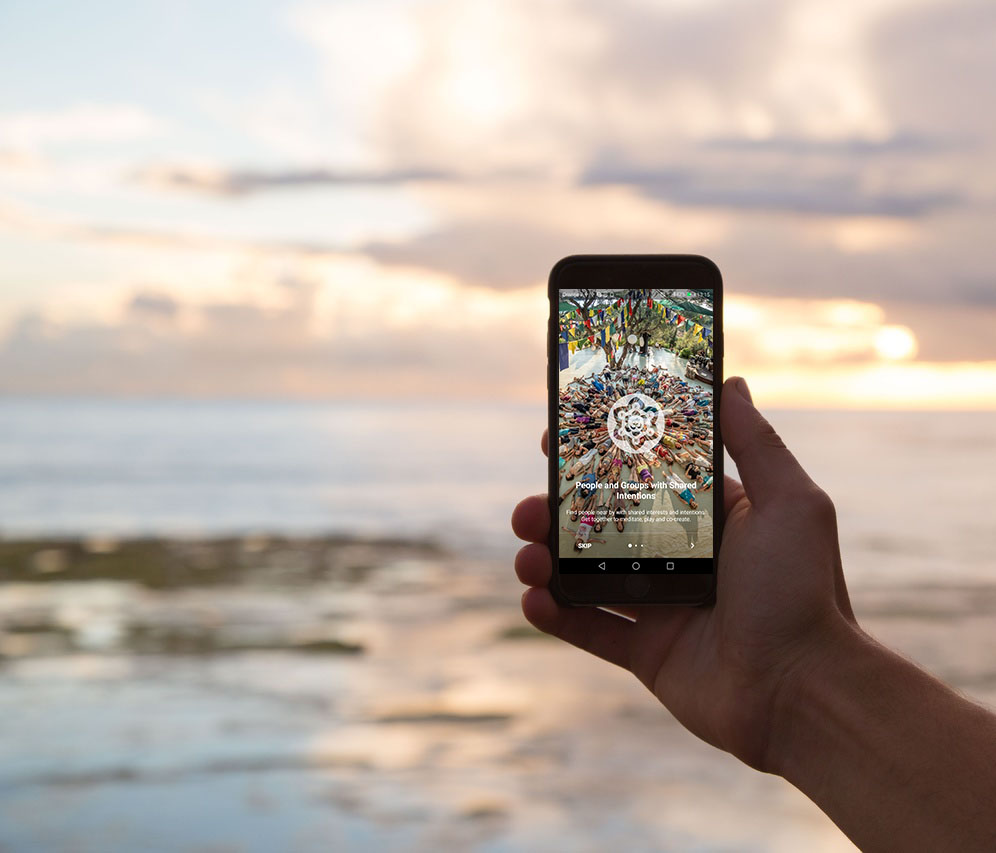
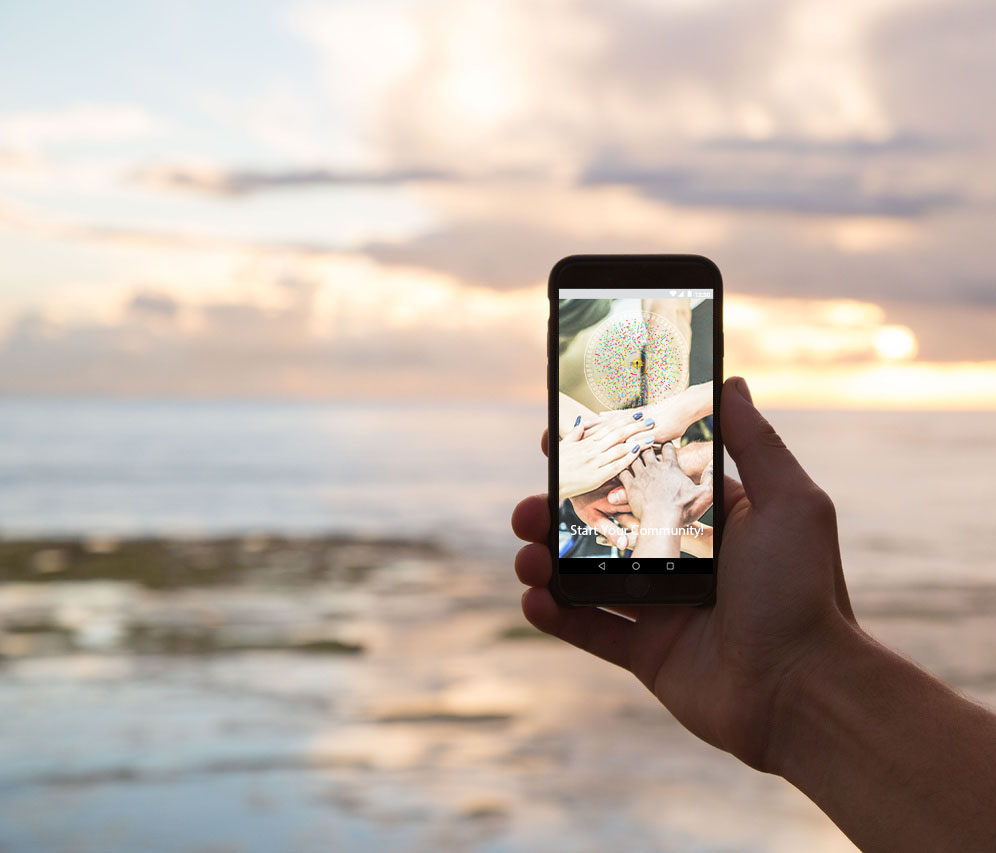
Changed BG images, updated texts.

Changed region(s): [[0.5602, 0.3353, 0.7159, 0.6706]]

diff --git a/www/css/new-age.min.css b/www/css/new-age.min.css
@@ -1,1 +1,1 @@
-body,html{width:100%;background-color:#fff;background-image:url(/img/bg-planet.jpg);background-repeat:no-repeat;background-attachment:fixed;background-position:center center;-webkit-background-size:cover;-moz-background-size:cover;-o-background-size:cover;background-size:cover}body{font-family:Roboto,Arial,sans-serif}a{color:#fdcc52;-webkit-transition:all .35s;-moz-transition:all .35s;transition:all .35s}a:focus,a:hover{color:#fcbd20}hr{max-width:100px;margin:25px auto 0;border-width:1px;border-color:rgba(34,34,34,.1)}hr.light{border-color:#fff}h1,h2,h3,h4,h5,h6{font-family:Lato,Roboto,Arial,sans-serif;font-weight:600;-webkit-font-smoothing:antialiased;letter-spacing:1px}p{font-size:18px;line-height:1.5;margin-bottom:20px}section{padding:60px 0}section h2{font-size:50px}#mainNav{z-index:100;border-color:rgba(34,34,34,.05);background-color:#fff;-webkit-transition:all .35s;-moz-transition:all .35s;transition:all .35s;font-family:Lato,Roboto,Arial,sans-serif;font-weight:600;-webkit-font-smoothing:antialiased;letter-spacing:1px}#mainNav .navbar-brand{margin-top:2px;line-height:1.1rem;color:#fdcc52;font-family:Lato,Roboto,Arial,sans-serif;font-weight:600;-webkit-font-smoothing:antialiased;letter-spacing:1px}#mainNav .navbar-brand:focus,#mainNav .navbar-brand:hover{color:#fcbd20}#mainNav .logo{width:35px;height:35px;padding:0;margin-top:5px;float:left;opacity:.8}#mainNav .navbar-toggler{font-size:12px;padding:8px 10px;color:#fdcc52}#mainNav .navbar-nav>li>a{font-size:11px;font-family:Lato,Roboto,Arial,sans-serif;letter-spacing:2px;text-transform:uppercase}#mainNav .navbar-nav>li>a.active{color:#fdcc52!important;background-color:transparent}#mainNav .navbar-nav>li>a.active:hover{background-color:transparent}#mainNav .navbar-nav>li>a,#mainNav .navbar-nav>li>a:focus{color:#43147d}#mainNav .navbar-nav>li>a:focus:hover,#mainNav .navbar-nav>li>a:hover{color:#fdcc52}@media (min-width:992px){#mainNav{border-color:transparent;background-color:transparent}#mainNav .navbar-brand{color:fade(white,70%)}#mainNav .navbar-brand:focus,#mainNav .navbar-brand:hover{color:#fff}#mainNav .navbar-nav>li>a,#mainNav .navbar-nav>li>a:focus{color:rgba(255,255,255,.7)}#mainNav .navbar-nav>li>a:focus:hover,#mainNav .navbar-nav>li>a:hover{color:#fff}#mainNav.navbar-shrink{border-color:rgba(34,34,34,.1);background-color:#fff}#mainNav.navbar-shrink .navbar-brand{color:#43147d}#mainNav.navbar-shrink .navbar-brand:focus,#mainNav.navbar-shrink .navbar-brand:hover{color:#fdcc52}#mainNav.navbar-shrink .navbar-nav>li>a,#mainNav.navbar-shrink .navbar-nav>li>a:focus{color:#43147d}#mainNav.navbar-shrink .navbar-nav>li>a:focus:hover,#mainNav.navbar-shrink .navbar-nav>li>a:hover{color:#fdcc52}}header.masthead{position:relative;width:100%;padding-top:150px;padding-bottom:100px;color:#fff}header.masthead .header-content{max-width:500px;margin-bottom:100px;padding:20px;background-color:rgba(183,155,141,.7);border-radius:9px;text-align:left}header.masthead .header-content p{font-size:16px}header.masthead .header-content h1{font-size:16px;margin-bottom:0}header.masthead .device-container{max-width:325px;margin-right:auto;margin-left:auto}header.masthead .device-container .screen img{border-radius:3px}@media (min-width:992px){header.masthead{height:100vh;min-height:775px;padding-top:0;padding-bottom:0}header.masthead .header-content{margin-bottom:0;text-align:left}header.masthead .header-content p{font-size:17px}header.masthead .header-content h1{font-size:18px;margin-bottom:0}header.masthead .device-container{max-width:325px}}#info_container{z-index:0}#info_container.container-shrink{display:none}#planet_info{margin-top:90px;width:300px;float:right;z-index:0}@media (min-width:992px){#planet_info{margin-top:70px}}#planet_info p{color:rgba(255,255,255,.8);font-size:11px;letter-spacing:1.3px}#planet_info .solar_system{width:65px;height:65px;margin-right:10px;float:left}#planet_container{width:100%;height:100%;z-index:101}#planet_container .bg1{width:100%;height:100%;position:absolute;top:0;left:0;right:0;bottom:0;opacity:.6;background:-moz-radial-gradient(center,ellipse cover,rgba(255,255,255,.6) 0,transparent 60%);background:-webkit-radial-gradient(center,ellipse cover,rgba(255,255,255,.6) 0,transparent 60%);background:radial-gradient(ellipse at center,rgba(255,255,255,.6) 0,transparent 60%)}#canvas_container{height:100vh;z-index:0}#canvas_three{height:100%;width:100%;z-index:1;opacity:0;transform:scale(.3);-webkit-transform:scale(.3);background-image:url(/img/stargate.svg);background-position:50% 50%;background-repeat:no-repeat;background-size:62% 62%}#canvas_three.animated{opacity:.8;transform:scale(.8);-webkit-transform:scale(.8);transition:all 3s cubic-bezier(.2,1,.4,.8) 0s;-webkit-transition:all 3s cubic-bezier(.2,1,.4,.8) 0s}#planet_container .planet_name{position:absolute;text-align:center;left:50%;width:333px;height:33px;margin:-15px 0 0 -166.6px;bottom:18%;font-family:Roboto,sans-serif;font-weight:500;color:#fff}#planet_container .planet-title{font-size:24px;margin-bottom:10px;text-shadow:2px 2px 4px #491d12}#planet_container .planet-subtitle{font-size:18px;border-radius:5px;padding:4px;text-shadow:2px 2px 4px #491d12}section.download{background-color:#fff;position:relative;padding:150px 0}section.download p{font-size:12px}section.download h2{font-size:20px;margin-top:0}section.download .badges .badge-link{display:block;margin-bottom:25px}section.download .badges .badge-link:last-child{margin-bottom:0}section.download .badges .badge-link img{height:60px}@media (min-width:768px){section.download .badges .badge-link{display:inline-block;margin-bottom:0}}@media (min-width:768px){section.download p{font-size:18px}section.download h2{font-size:30px}}section.features{background-color:#fdcc52;color:#fff}section.features .section-heading{margin-bottom:10px}section.features .section-heading h2{font-size:20px;margin-top:0}section.features .section-heading p{font-size:15px;margin-bottom:0}@media (min-width:992px){section.features .container{background:-moz-radial-gradient(center,ellipse cover,rgba(255,255,255,.3) 0,transparent 60%);background:-webkit-radial-gradient(center,ellipse cover,rgba(255,255,255,.3) 0,transparent 60%);background:radial-gradient(ellipse at center,rgba(255,255,255,.3) 0,transparent 60%)}section.features h2{font-size:22px;margin-top:0}section.features p{font-size:18px;margin-bottom:0}}section.features .device-container,section.features .feature-item{max-width:325px;margin:0 auto}section.features .device-container{margin-bottom:100px}@media (min-width:992px){section.features .device-container{margin-bottom:0}}section.features .feature-item{padding-top:40px;padding-bottom:0;text-align:center}section.features .feature-item h3{font-size:20px}section.features .feature-item p{font-size:16px;margin-bottom:0}section.features .feature-item i{font-size:80px;display:block;margin-bottom:15px;background:-webkit-linear-gradient(to left,#fdcc52,#fff);background:linear-gradient(to left,#fdcc52,#fff);-webkit-background-clip:text;-webkit-text-fill-color:transparent}section.timeline{background-image:url(../img/bg-timeline.svg);background-color:grey;background-repeat:no-repeat;background-position:center center;-webkit-background-size:cover;-moz-background-size:cover;-o-background-size:cover;background-size:cover;position:relative;padding-bottom:150px}section.timeline h2{font-size:26px;margin-top:0;margin-bottom:25px;color:#fff;text-align:center}section.timeline .timeline-content{position:relative;z-index:10;margin-bottom:60px;text-align:center;height:2000px}section.timeline .timeline-content p{font-size:14px;max-width:450px;margin-top:0;margin-bottom:25px;color:#fff}section.timeline .timeline-content h2{font-size:21px;margin-top:0;margin-bottom:25px;color:#fff}section.timeline .timeline-content .dot{width:6px;height:6px;border-radius:6px;margin:auto;background:#fff;margin-top:60px;margin-bottom:10px}section.timeline .timeline-content .circle{background:url(../img/solar_system.svg) no-repeat 50% 0;width:90px;height:90px;margin:auto;text-align:center;margin-top:10px}section.timeline .timeline-content .line{width:1px;height:100%;margin:auto;background:#fff;position:relative}section.timeline .timeline-content .timeline-holder{width:100%;margin:auto;text-align:center;position:absolute;top:20px;background:0 0}section.timeline .timeline-content .date-box{width:80px;height:25px;background:#fff;position:relative;margin:auto;margin-top:25px;text-align:center}section.timeline .timeline-content .date-txt{font-size:18px;font-weight:600;color:#0e0e0e}section.timeline .timeline-content .timeline-box{width:110px;color:#fff;position:relative;margin:auto;background:0 0}section.timeline .timeline-content .timeline-left{right:110px;text-align:right}section.timeline .timeline-content .timeline-right{left:110px;text-align:left}section.timeline .timeline-content .timeline-mid{margin-top:25px}section.timeline .timeline-content .timeline-top{margin-top:-35px}section.timeline .timeline-content .timeline-title{font-size:11px;line-height:11px;text-transform:uppercase}section.timeline .timeline-content .timeline-description{font-size:10px;font-style:italic}@media (min-width:768px){section.timeline .timeline-content{height:1522px}section.timeline .timeline-content p{font-size:16px}section.timeline .timeline-content h2{font-size:22px}section.timeline .timeline-content .timeline-box{width:400px;color:#fff;position:relative;margin:auto;background:0 0}section.timeline .timeline-content .timeline-left{right:255px;text-align:right}section.timeline .timeline-content .timeline-right{left:255px;text-align:left}section.timeline .timeline-content .timeline-mid{margin-top:25px}section.timeline .timeline-content .timeline-top{margin-top:-35px}section.timeline .timeline-content .timeline-title{font-size:18px;line-height:20px;text-transform:uppercase}section.timeline .timeline-content .timeline-description{font-size:17px;font-style:italic}}section.cta{background-image:url(../img/bg-cta.jpg);background-repeat:no-repeat;background-position:60% center;-webkit-background-size:cover;-moz-background-size:cover;-o-background-size:cover;background-size:cover;position:relative}section.cta .cta-content{position:relative;z-index:1}section.cta .cta-content p{font-size:14px;max-width:450px;margin-top:0;padding:20px;color:#fff;background-color:rgba(144,133,127,.5);border-radius:9px}section.cta .cta-content h2{font-size:21px;max-width:450px;margin-top:0;margin-bottom:25px;margin-left:12px;color:#fff;text-shadow:2px 2px 4px #90857f}@media (min-width:768px){section.cta .cta-content p{font-size:16px}section.cta .cta-content h2{font-size:24px}}section.cta .overlay{position:absolute;top:0;left:0;width:100%;height:100%;background-color:rgba(0,0,0,.3)}section.principles{background-color:#fff;position:relative}section.principles .principles-content{position:relative;z-index:1}section.principles .principles-content p,section.principles .principles-content ul li{font-size:14px;max-width:450px;margin-top:0;margin-bottom:25px;color:#222}section.principles .principles-content h2{font-size:21px;max-width:450px;margin-top:0;margin-bottom:25px;color:#fdcc52}section.principles .principles-content h4{font-size:15px;margin-top:0;margin-bottom:5px;color:#222}section.principles .principles-content ul.platonic_icons li{display:inline-block;padding:0 1em 0 0}section.principles .principles-content .platonic_icons img{height:35px}@media (min-width:768px){section.principles .principles-content p{font-size:12px}section.principles .principles-content h2{font-size:18px}section.principles .principles-content h4{font-size:14px}}section.vision{background-image:url(../img/bg-vision.jpg);background-repeat:no-repeat;background-position:35% center;-webkit-background-size:cover;-moz-background-size:cover;-o-background-size:cover;background-size:cover;position:relative}section.vision .vision-content{position:relative;z-index:1}section.vision .vision-content p{font-size:14px;max-width:550px;margin-top:0;padding:20px;color:#fff;background-color:rgba(112,116,129,.4);border-radius:9px}section.vision .vision-content h2{font-size:22px;max-width:450px;margin-top:0;margin-left:10px;margin-bottom:25px;color:#fdcc52}section.vision .vision-content h4{font-size:16px;margin-top:0;margin-left:10px;margin-bottom:15px;max-width:450px;color:#fff;text-shadow:2px 2px 4px #707481}@media (min-width:768px){section.vision .vision-content p{font-size:14px}section.vision .vision-content h2{font-size:16px}section.vision .vision-content h4{font-size:16px}}section.vision .overlay{position:absolute;top:0;left:0;width:100%;height:100%;background-color:rgba(0,0,0,.3)}section.faqs{background-color:#fff;position:relative}section.faqs .faqs-content{position:relative;z-index:1}section.faqs .faqs-content p,section.faqs .faqs-content ul li{font-size:15px;max-width:550px;margin-top:0;margin-bottom:25px;color:#222}section.faqs .faqs-content h2{font-size:21px;max-width:450px;margin-top:0;margin-bottom:25px;color:#fdcc52}section.faqs .faqs-content h4{font-size:18px;margin-top:0;margin-bottom:5px;max-width:450px;color:#222}@media (min-width:768px){section.faqs .faqs-content p{font-size:14px}section.faqs .faqs-content h2{font-size:18px}section.faqs .faqs-content h4{font-size:16px}}section.contact{background-image:url(/img/bg-contact.jpg);background-repeat:no-repeat;background-position:center center;-webkit-background-size:cover;-moz-background-size:cover;-o-background-size:cover;background-size:cover;padding-top:360px;padding-bottom:70px;text-align:center}section.contact h2{font-size:20px;color:#fff}section.contact h2 i{color:#dd4b39}section.contact ul.list-social{margin-bottom:10px}section.contact ul.list-social li a{font-size:40px;line-height:80px;display:block;width:80px;height:80px;color:#fff;border-radius:100%}section.contact ul.list-social li.social-instagram a{background-color:#f09433}section.contact ul.list-social li.social-instagram a:hover{background-color:#e07b10}section.contact ul.list-social li.social-facebook a{background-color:#3b5998}section.contact ul.list-social li.social-facebook a:hover{background-color:#2d4373}section.contact ul.list-social li.social-google-plus a{background-color:#dd4b39}section.contact ul.list-social li.social-google-plus a:hover{background-color:#c23321}section.contact ul.list-social li.social-email a{background-color:#dd4b39}section.contact ul.list-social li.social-email a:hover{background-color:#c23321}section.contact ul.list-social li.social-omplanet-org a{background-color:rgba(253,204,82,.5)}section.contact ul.list-social li.social-omplanet-org a:hover{background-color:#3c3c3c}section.contact ul.list-social li.social-omplanet-org img{width:100%;height:100%;margin-top:-10px}footer{padding:10px 0;text-align:center;color:#555;background-color:#fff}footer p{font-size:12px;margin:0}footer ul{margin-bottom:0}footer ul li a{font-size:12px;color:#555}footer ul li a.active,footer ul li a:active,footer ul li a:focus,footer ul li a:hover{text-decoration:none}.bg-primary{background:#fdcc52;background:-webkit-linear-gradient(#fff,#fdc539);background:linear-gradient(#fff,#fdc539)}.text-primary{color:#fdcc52}.no-gutter>[class*=col-]{padding-right:0;padding-left:0}.btn-outline{color:#fff;border:1px solid;border-color:#fff}.btn-outline.active,.btn-outline:active,.btn-outline:focus,.btn-outline:hover{color:#fff;border-color:#fdcc52;background-color:#fdcc52}.btn-outline-success{color:#fdcc52;border:1px solid;border-color:#fdcc52}.btn-outline-success.active,.btn-outline-success:active,.btn-outline-success:focus,.btn-outline-success:hover{color:#fff;border-color:#fdcc52;background-color:#fdcc52}.btn{border-radius:300px;font-family:Lato,Roboto,Arial,sans-serif;letter-spacing:2px;text-transform:uppercase}.btn-xl{font-size:11px;padding:15px 45px}
+body,html{width:100%;background-color:#fff}@media (min-width:768px){body,html{background-image:url(/img/bg-planet.jpg);background-repeat:no-repeat;background-attachment:fixed;background-position:center center;-webkit-background-size:cover;-moz-background-size:cover;-o-background-size:cover;background-size:cover}}body{font-family:Roboto,Arial,sans-serif}a{color:#fdcc52;-webkit-transition:all .35s;-moz-transition:all .35s;transition:all .35s}a:focus,a:hover{color:#fcbd20}hr{max-width:100px;margin:25px auto 0;border-width:1px;border-color:rgba(34,34,34,.1)}hr.light{border-color:#fff}h1,h2,h3,h4,h5,h6{font-family:Lato,Roboto,Arial,sans-serif;font-weight:600;-webkit-font-smoothing:antialiased;letter-spacing:1px}p{font-size:18px;line-height:1.5;margin-bottom:20px}section{padding:60px 0}section h2{font-size:50px}#mainNav{z-index:100;border-color:rgba(34,34,34,.05);background-color:#fff;-webkit-transition:all .35s;-moz-transition:all .35s;transition:all .35s;font-family:Lato,Roboto,Arial,sans-serif;font-weight:600;-webkit-font-smoothing:antialiased;letter-spacing:1px}#mainNav .navbar-brand{margin-top:2px;line-height:1.1rem;color:#fdcc52;font-family:Lato,Roboto,Arial,sans-serif;font-weight:600;-webkit-font-smoothing:antialiased;letter-spacing:1px}#mainNav .navbar-brand:focus,#mainNav .navbar-brand:hover{color:#fcbd20}#mainNav .logo{width:35px;height:35px;padding:0;margin-top:5px;float:left;opacity:.8}#mainNav .navbar-toggler{font-size:12px;padding:8px 10px;color:#fdcc52}#mainNav .navbar-nav>li>a{font-size:11px;font-family:Lato,Roboto,Arial,sans-serif;letter-spacing:2px;text-transform:uppercase}#mainNav .navbar-nav>li>a.active{color:#fdcc52!important;background-color:transparent}#mainNav .navbar-nav>li>a.active:hover{background-color:transparent}#mainNav .navbar-nav>li>a,#mainNav .navbar-nav>li>a:focus{color:#43147d}#mainNav .navbar-nav>li>a:focus:hover,#mainNav .navbar-nav>li>a:hover{color:#fdcc52}@media (min-width:992px){#mainNav{border-color:transparent;background-color:transparent}#mainNav .navbar-brand{color:fade(white,70%)}#mainNav .navbar-brand:focus,#mainNav .navbar-brand:hover{color:#fff}#mainNav .navbar-nav>li>a,#mainNav .navbar-nav>li>a:focus{color:rgba(255,255,255,.7)}#mainNav .navbar-nav>li>a:focus:hover,#mainNav .navbar-nav>li>a:hover{color:#fff}#mainNav.navbar-shrink{border-color:rgba(34,34,34,.1);background-color:#fff}#mainNav.navbar-shrink .navbar-brand{color:#43147d}#mainNav.navbar-shrink .navbar-brand:focus,#mainNav.navbar-shrink .navbar-brand:hover{color:#fdcc52}#mainNav.navbar-shrink .navbar-nav>li>a,#mainNav.navbar-shrink .navbar-nav>li>a:focus{color:#43147d}#mainNav.navbar-shrink .navbar-nav>li>a:focus:hover,#mainNav.navbar-shrink .navbar-nav>li>a:hover{color:#fdcc52}}header.masthead{position:relative;width:100%;padding-top:70px;padding-bottom:70px;color:#fff}header.masthead .header-content{max-width:500px;margin-bottom:100px;padding:20px;background-color:rgba(183,155,141,.7);border-radius:9px;text-align:left}header.masthead .header-content p{font-size:16px}header.masthead .header-content h1{font-size:16px;margin-bottom:0}header.masthead .device-container{max-width:325px;margin-right:auto;margin-left:auto}header.masthead .device-container .screen img{border-radius:3px}@media (min-width:992px){header.masthead{height:100vh;min-height:775px;padding-top:0;padding-bottom:0}header.masthead .header-content{margin-bottom:0;text-align:left}header.masthead .header-content p{font-size:17px}header.masthead .header-content h1{font-size:18px;margin-bottom:0}header.masthead .device-container{max-width:325px}}#info_container{z-index:0}#info_container.container-shrink{display:none}#planet_info{margin-top:90px;width:300px;float:right;z-index:0}@media (min-width:992px){#planet_info{margin-top:70px}}#planet_info p{color:rgba(255,255,255,.8);font-size:11px;letter-spacing:1.3px}#planet_info .solar_system{width:65px;height:65px;margin-right:10px;float:left}#planet_container{width:100%;height:100%;z-index:101}@media (max-width:767px){#planet_container{background-image:url(../img/bg-planet-mobile.jpg);background-repeat:no-repeat;background-position:center center;-webkit-background-size:cover;-moz-background-size:cover;-o-background-size:cover;background-size:cover}}#planet_container .bg1{width:100%;height:100%;position:absolute;top:0;left:0;right:0;bottom:0;opacity:.6;background:-moz-radial-gradient(center,ellipse cover,rgba(255,255,255,.6) 0,transparent 60%);background:-webkit-radial-gradient(center,ellipse cover,rgba(255,255,255,.6) 0,transparent 60%);background:radial-gradient(ellipse at center,rgba(255,255,255,.6) 0,transparent 60%)}#canvas_container{height:100vh;z-index:0}#canvas_three{height:100%;width:100%;z-index:1;opacity:0;transform:scale(.3);-webkit-transform:scale(.3);background-image:url(/img/stargate.svg);background-position:50% 50%;background-repeat:no-repeat;background-size:62% 62%}#canvas_three.animated{opacity:.8;transform:scale(.8);-webkit-transform:scale(.8);transition:all 3s cubic-bezier(.2,1,.4,.8) 0s;-webkit-transition:all 3s cubic-bezier(.2,1,.4,.8) 0s}#planet_container .planet_name{position:absolute;text-align:center;left:50%;width:333px;height:33px;margin:-15px 0 0 -166.6px;bottom:18%;font-family:Roboto,sans-serif;font-weight:500;color:#fff}#planet_container .planet-title{font-size:24px;margin-bottom:10px;text-shadow:2px 2px 4px #491d12}#planet_container .planet-subtitle{font-size:18px;border-radius:5px;padding:4px;text-shadow:2px 2px 4px #491d12}section.download{background-color:#fff;position:relative;padding:150px 0}section.download p{font-size:12px}section.download h2{font-size:20px;margin-top:0}section.download .badges .badge-link{display:block;margin-bottom:25px}section.download .badges .badge-link:last-child{margin-bottom:0}section.download .badges .badge-link img{height:60px}@media (min-width:768px){section.download .badges .badge-link{display:inline-block;margin-bottom:0}}@media (min-width:768px){section.download p{font-size:18px}section.download h2{font-size:30px}}section.features{background-color:#fdcc52;color:#fff}section.features .section-heading{margin-bottom:10px}section.features .section-heading h2{font-size:20px;margin-top:0}section.features .section-heading p{font-size:15px;margin-bottom:0}@media (min-width:992px){section.features .container{background:-moz-radial-gradient(center,ellipse cover,rgba(255,255,255,.3) 0,transparent 60%);background:-webkit-radial-gradient(center,ellipse cover,rgba(255,255,255,.3) 0,transparent 60%);background:radial-gradient(ellipse at center,rgba(255,255,255,.3) 0,transparent 60%)}section.features h2{font-size:22px;margin-top:0}section.features p{font-size:18px;margin-bottom:0}}section.features .device-container,section.features .feature-item{max-width:325px;margin:0 auto}section.features .device-container{margin-bottom:100px}@media (min-width:992px){section.features .device-container{margin-bottom:0}}section.features .feature-item{padding-top:40px;padding-bottom:0;text-align:center}section.features .feature-item h3{font-size:20px}section.features .feature-item p{font-size:16px;margin-bottom:0}section.features .feature-item i{font-size:80px;display:block;margin-bottom:15px;background:-webkit-linear-gradient(to left,#fdcc52,#fff);background:linear-gradient(to left,#fdcc52,#fff);-webkit-background-clip:text;-webkit-text-fill-color:transparent}section.timeline{background-image:url(../img/bg-timeline.svg);background-color:grey;background-repeat:no-repeat;background-position:center center;-webkit-background-size:cover;-moz-background-size:cover;-o-background-size:cover;background-size:cover;position:relative;padding-bottom:150px}section.timeline h2{font-size:26px;margin-top:0;margin-bottom:25px;color:#fff;text-align:center}section.timeline .timeline-content{position:relative;z-index:10;margin-bottom:60px;text-align:center;height:2000px}section.timeline .timeline-content p{font-size:14px;max-width:450px;margin-top:0;margin-bottom:25px;color:#fff}section.timeline .timeline-content h2{font-size:21px;margin-top:0;margin-bottom:25px;color:#fff}section.timeline .timeline-content .dot{width:6px;height:6px;border-radius:6px;margin:auto;background:#fff;margin-top:60px;margin-bottom:10px}section.timeline .timeline-content .circle{background:url(../img/solar_system.svg) no-repeat 50% 0;width:90px;height:90px;margin:auto;text-align:center;margin-top:10px}section.timeline .timeline-content .line{width:1px;height:100%;margin:auto;background:#fff;position:relative}section.timeline .timeline-content .timeline-holder{width:100%;margin:auto;text-align:center;position:absolute;top:20px;background:0 0}section.timeline .timeline-content .date-box{width:80px;height:25px;background:#fff;position:relative;margin:auto;margin-top:25px;text-align:center}section.timeline .timeline-content .date-txt{font-size:18px;font-weight:600;color:#0e0e0e}section.timeline .timeline-content .timeline-box{width:110px;color:#fff;position:relative;margin:auto;background:0 0}section.timeline .timeline-content .timeline-left{right:110px;text-align:right}section.timeline .timeline-content .timeline-right{left:110px;text-align:left}section.timeline .timeline-content .timeline-mid{margin-top:25px}section.timeline .timeline-content .timeline-top{margin-top:-35px}section.timeline .timeline-content .timeline-title{font-size:11px;line-height:11px;text-transform:uppercase}section.timeline .timeline-content .timeline-description{font-size:10px;font-style:italic}@media (min-width:768px){section.timeline .timeline-content{height:1522px}section.timeline .timeline-content p{font-size:16px}section.timeline .timeline-content h2{font-size:22px}section.timeline .timeline-content .timeline-box{width:400px;color:#fff;position:relative;margin:auto;background:0 0}section.timeline .timeline-content .timeline-left{right:255px;text-align:right}section.timeline .timeline-content .timeline-right{left:255px;text-align:left}section.timeline .timeline-content .timeline-mid{margin-top:25px}section.timeline .timeline-content .timeline-top{margin-top:-35px}section.timeline .timeline-content .timeline-title{font-size:18px;line-height:20px;text-transform:uppercase}section.timeline .timeline-content .timeline-description{font-size:17px;font-style:italic}}section.cta{background-image:url(../img/bg-cta.jpg);background-repeat:no-repeat;background-position:60% center;-webkit-background-size:cover;-moz-background-size:cover;-o-background-size:cover;background-size:cover;position:relative}section.cta .cta-content{position:relative;z-index:1}section.cta .cta-content p{font-size:14px;max-width:450px;margin-top:0;padding:20px;color:#fff;background-color:rgba(144,133,127,.6);border-radius:9px}section.cta .cta-content h2{font-size:21px;max-width:450px;margin-top:0;margin-bottom:25px;margin-left:12px;color:#fff;text-shadow:2px 2px 4px #90857f}@media (min-width:768px){section.cta .cta-content p{font-size:16px}section.cta .cta-content h2{font-size:24px}}section.cta .overlay{position:absolute;top:0;left:0;width:100%;height:100%}section.principles{background-color:#fff;position:relative}section.principles .principles-content{position:relative;z-index:1}section.principles .principles-content p,section.principles .principles-content ul li{font-size:14px;max-width:450px;margin-top:0;margin-bottom:25px;color:#222}section.principles .principles-content h2{font-size:21px;max-width:450px;margin-top:0;margin-bottom:25px;color:#fdcc52}section.principles .principles-content h4{font-size:15px;margin-top:0;margin-bottom:5px;color:#222}section.principles .principles-content ul.platonic_icons li{display:inline-block;padding:0 1em 0 0}section.principles .principles-content .platonic_icons img{height:35px}@media (min-width:768px){section.principles .principles-content p{font-size:12px}section.principles .principles-content h2{font-size:18px}section.principles .principles-content h4{font-size:14px}}section.vision{background-image:url(../img/bg-vision.jpg);background-repeat:no-repeat;background-position:65% center;-webkit-background-size:cover;-moz-background-size:cover;-o-background-size:cover;background-size:cover;position:relative}section.vision .vision-content{position:relative;z-index:1}section.vision .vision-content p{font-size:14px;max-width:550px;margin-top:0;padding:20px;color:#fff;background-color:rgba(112,116,129,.6);border-radius:9px}section.vision .vision-content h2{font-size:22px;max-width:450px;margin-top:0;margin-left:10px;margin-bottom:25px;color:#fdcc52}section.vision .vision-content h4{font-size:16px;margin-top:0;margin-left:10px;margin-bottom:15px;max-width:450px;color:#fff;text-shadow:2px 2px 4px #707481}@media (min-width:768px){section.vision .vision-content p{font-size:14px}section.vision .vision-content h2{font-size:16px}section.vision .vision-content h4{font-size:16px}}section.vision .overlay{position:absolute;top:0;left:0;width:100%;height:100%;background-color:rgba(0,0,0,.1)}section.faqs{background-color:#fff;position:relative}section.faqs .faqs-content{position:relative;z-index:1}section.faqs .faqs-content p,section.faqs .faqs-content ul li{font-size:15px;max-width:550px;margin-top:0;margin-bottom:25px;color:#222}section.faqs .faqs-content h2{font-size:21px;max-width:450px;margin-top:0;margin-bottom:25px;color:#fdcc52}section.faqs .faqs-content h4{font-size:18px;margin-top:0;margin-bottom:5px;max-width:450px;color:#222}@media (min-width:768px){section.faqs .faqs-content p{font-size:14px}section.faqs .faqs-content h2{font-size:18px}section.faqs .faqs-content h4{font-size:16px}}section.contact{background-image:url(/img/bg-contact.jpg);background-repeat:no-repeat;background-position:center center;-webkit-background-size:cover;-moz-background-size:cover;-o-background-size:cover;background-size:cover;padding-top:360px;padding-bottom:70px;text-align:center}section.contact h2{font-size:20px;color:#fff}section.contact h2 i{color:#dd4b39}section.contact ul.list-social{margin-bottom:10px}section.contact ul.list-social li a{font-size:40px;line-height:80px;display:block;width:80px;height:80px;color:#fff;border-radius:100%}section.contact ul.list-social li.social-instagram a{background-color:#f09433}section.contact ul.list-social li.social-instagram a:hover{background-color:#e07b10}section.contact ul.list-social li.social-facebook a{background-color:#3b5998}section.contact ul.list-social li.social-facebook a:hover{background-color:#2d4373}section.contact ul.list-social li.social-google-plus a{background-color:#dd4b39}section.contact ul.list-social li.social-google-plus a:hover{background-color:#c23321}section.contact ul.list-social li.social-email a{background-color:#dd4b39}section.contact ul.list-social li.social-email a:hover{background-color:#c23321}section.contact ul.list-social li.social-omplanet-org a{background-color:rgba(253,204,82,.5)}section.contact ul.list-social li.social-omplanet-org a:hover{background-color:#3c3c3c}section.contact ul.list-social li.social-omplanet-org img{width:100%;height:100%;margin-top:-10px}footer{padding:10px 0;text-align:center;color:#555;background-color:#fff}footer p{font-size:12px;margin:0}footer ul{margin-bottom:0}footer ul li a{font-size:12px;color:#555}footer ul li a.active,footer ul li a:active,footer ul li a:focus,footer ul li a:hover{text-decoration:none}.bg-primary{background:#fdcc52;background:-webkit-linear-gradient(#fff,#fdc539);background:linear-gradient(#fff,#fdc539)}.text-primary{color:#fdcc52}.no-gutter>[class*=col-]{padding-right:0;padding-left:0}.btn-outline{color:#fff;border:1px solid;border-color:#fff}.btn-outline.active,.btn-outline:active,.btn-outline:focus,.btn-outline:hover{color:#fff;border-color:#fdcc52;background-color:#fdcc52}.btn-outline-success{color:#fdcc52;border:1px solid;border-color:#fdcc52}.btn-outline-success.active,.btn-outline-success:active,.btn-outline-success:focus,.btn-outline-success:hover{color:#fff;border-color:#fdcc52;background-color:#fdcc52}.btn{border-radius:300px;font-family:Lato,Roboto,Arial,sans-serif;letter-spacing:2px;text-transform:uppercase}.btn-xl{font-size:11px;padding:15px 45px}

diff --git a/www/index.html b/www/index.html
@@ -101,9 +101,9 @@
                 <br/>
               	Set your intention to live in unity, with purpose and service to others, to share abundantly joy, love and friendship. We give you the tools to make magic happen!<br/>
                 <br/>
-                - Our primary services for individuals are to connect with like-minded people, to discover transformational places and experiences: all accessible with the basic membership plan.<br/>
+                - Our primary services for individuals are to connect with like-minded people, to discover transformational places, to exchange services and experiences in conscious collectives worldwide.<br/>
                 <br/>
-                - Our primary service for organizations and communities is to have a dedicated platform for interaction for all the members of the collective, to have their own branded version of the app to efficiently communicate and exchange services. If you are an intentional community, positive impact businesse, NGO or a conscious movement: you have come to the right place!
+                - Our primary service for organizations and communities is to have a dedicated platform for interaction for all the members of the collective, to have their own branded version of the app to efficiently mobilize all the members or interested people. If you are an intentional community, positive impact business, NGO or a conscious movement: you have come to the right place!
                 </p>
               <a href="#download" class="btn btn-outline btn-xl js-scroll-trigger">Start Now!</a>
             </div>
@@ -236,11 +236,12 @@
         <div class="container">
           <h2>Organize and Grow Your Community</h2>
           <p>
-            There are times when the power of <strong>many as One</strong> is required for us to create a significant change during this planetary transition! Become an inspirational example how to bring people together around shared purpose and mission.<br/>
+            There are times when the power of <strong>many as One</strong> is required for us to create a significant change during this planetary transition!<br/>
+            <br/>Become an inspirational example how to bring people together around shared purpose and mission.<br/>
             <br/>
             OMPlanet app is designed to bring together and enliven collectives of people like intentional communities, positive change businesses, integrative healing centers, educational organizations and conscious movements. Members of each collective can build meaningful relationships with each other, efficiently communicate and exchange services on a regular basis.<br/>
             <br/>
-            As a community builder you can request to have your own version of the OMPlanet app with a dedicated interaction space only for your collective. You can manage membership subscriptions, create and share news and promote activities.<br/>
+            As a community builder you can request to have your own branded version of the OMPlanet app with a dedicated interaction space only for your collective. You can easily promote your places, events and activities with all members. You can manage membership subscriptions with free or monthly payment plans.<br/>
             <br/>
       	  </p>
           <a href="http://eepurl.com/dE2BwX" class="btn btn-outline btn-xl js-scroll-trigger">Start Your Community!</a>
@@ -391,9 +392,9 @@
               <br/>
               That intention has been transformed and evolved many times in the past 10 years, and now it is expressed as this platform, this is a co-creation in progress, a quest.
             </p>
-            <h4>“Be the Change You Want to See</h4>
+            <h4>“Be the Change You Want to See"</h4>
             <p>
-              This intention of building the foundations of the New Earth starts from within ourselves. Living by example, we are reinventing the ways how we organize ourselves and collaborate. We experiment with new integrative organisational models such as Holacracy and Radiant Organizations — and we are open to paths, still hidden, that emerge as our understanding grows.
+              This intention of building the foundations of the New Earth starts from within ourselves. Living by example, we are reinventing the ways how we organize ourselves and collaborate. We experiment with new integrative organizational models such as Holacracy and Radiant Organizations — and we are open to paths, still hidden, that emerge as our understanding grows.
             </p>
         </div>
       </div>
@@ -468,7 +469,7 @@
 
     <footer>
       <div class="container">
-        <p>&copy; OMPlanet <span id="copyRightYear">2018</span>. All Rights Reserved.</p>
+        <p>&copy; OMPlanet <span id="copyRightYear">2019</span>. All Rights Reserved.</p>
         
         <ul class="list-inline">
           <li class="list-inline-item">

diff --git a/www/css/new-age.css b/www/css/new-age.css
@@ -2,14 +2,20 @@ html,
 body {
   width: 100%;
   background-color: #FFFFFF;
-  background-image: url(/img/bg-planet.jpg);
-  background-repeat: no-repeat;
-  background-attachment: fixed;
-  background-position: center center;
-  -webkit-background-size: cover;
-  -moz-background-size: cover;
-  -o-background-size: cover;
-  background-size: cover;
+}
+
+@media (min-width: 768px) {
+  html,
+  body {
+    background-image: url(/img/bg-planet.jpg);
+    background-repeat: no-repeat;
+    background-attachment: fixed;
+    background-position: center center;
+    -webkit-background-size: cover;
+    -moz-background-size: cover;
+    -o-background-size: cover;
+    background-size: cover;
+  }
 }
 
 body {
@@ -174,8 +180,8 @@ section h2 {
 header.masthead {
   position: relative;
   width: 100%;
-  padding-top: 150px;
-  padding-bottom: 100px;
+  padding-top: 70px;
+  padding-bottom: 70px;
   color: white;
 }
 
@@ -268,6 +274,18 @@ header.masthead .device-container .screen img {
   width: 100%;
   height: 100%;
   z-index: 101;
+}
+
+@media (max-width: 767px) {
+  #planet_container {
+    background-image: url("../img/bg-planet-mobile.jpg");
+    background-repeat: no-repeat;
+    background-position: center center;
+    -webkit-background-size: cover;
+    -moz-background-size: cover;
+    -o-background-size: cover;
+    background-size: cover;
+  }
 }
 
 #planet_container .bg1 {
@@ -653,7 +671,7 @@ section.cta .cta-content p {
   margin-top: 0;
   padding: 20px;
   color: white;
-  background-color: rgba(144, 133, 127, 0.5);
+  background-color: rgba(144, 133, 127, 0.6);
   border-radius: 9px;
 }
 
@@ -682,7 +700,6 @@ section.cta .overlay {
   left: 0;
   width: 100%;
   height: 100%;
-  background-color: rgba(0, 0, 0, 0.3);
 }
 
 section.principles {
@@ -742,7 +759,7 @@ section.principles .principles-content .platonic_icons img {
 section.vision {
   background-image: url("../img/bg-vision.jpg");
   background-repeat: no-repeat;
-  background-position: 35% center;
+  background-position: 65% center;
   -webkit-background-size: cover;
   -moz-background-size: cover;
   -o-background-size: cover;
@@ -761,7 +778,7 @@ section.vision .vision-content p {
   margin-top: 0;
   padding: 20px;
   color: white;
-  background-color: rgba(112, 116, 129, 0.4);
+  background-color: rgba(112, 116, 129, 0.6);
   border-radius: 9px;
 }
 
@@ -802,7 +819,7 @@ section.vision .overlay {
   left: 0;
   width: 100%;
   height: 100%;
-  background-color: rgba(0, 0, 0, 0.3);
+  background-color: rgba(0, 0, 0, 0.1);
 }
 
 section.faqs {

diff --git a/www/scss/_vision.scss b/www/scss/_vision.scss
@@ -2,7 +2,7 @@
 section.vision {
     background-image: url('../img/bg-vision.jpg');
     background-repeat: no-repeat;
-    background-position: 35% center;
+    background-position: 65% center;
     @include background-cover;
 
     position: relative;
@@ -17,7 +17,7 @@ section.vision {
             padding: 20px;
             color: white;
 
-            background-color: rgba(#707481, .4);
+            background-color: rgba(#707481, .6);
             border-radius: 9px;
         }
         h2 {
@@ -55,6 +55,6 @@ section.vision {
         left: 0;
         width: 100%;
         height: 100%;
-        background-color: fade-out(black, .7);
+        background-color: fade-out(black, .9);
     }
 }

diff --git a/www/scss/_global.scss b/www/scss/_global.scss
@@ -4,11 +4,14 @@ body {
     width: 100%;
 
     background-color: #FFFFFF;
-    background-image: url(/img/bg-planet.jpg);
-    background-repeat: no-repeat;
-    background-attachment: fixed;
-    background-position: center center;
-    @include background-cover;
+
+    @media (min-width: 768px) {
+        background-image: url(/img/bg-planet.jpg);
+        background-repeat: no-repeat;
+        background-attachment: fixed;
+        background-position: center center;
+        @include background-cover;
+    } 
 }
 
 body {

diff --git a/www/scss/_cta.scss b/www/scss/_cta.scss
@@ -17,7 +17,7 @@ section.cta {
             padding: 20px;
             color: white;
 
-            background-color: rgba(#90857F, .5);
+            background-color: rgba(#90857F, .6);
             border-radius: 9px;
         }
         h2 {
@@ -44,6 +44,5 @@ section.cta {
         left: 0;
         width: 100%;
         height: 100%;
-        background-color: fade-out(black, .7);
     }
 }

diff --git a/www/scss/_planet.scss b/www/scss/_planet.scss
@@ -37,6 +37,13 @@
   width:100%;
   height:100%;
   z-index:101;
+
+  @media (max-width: 767px) {
+    background-image: url('../img/bg-planet-mobile.jpg');
+    background-repeat: no-repeat;
+    background-position: center center;
+    @include background-cover;
+  }
 }
 
 #planet_container .bg1 {

diff --git a/www/scss/_masthead.scss b/www/scss/_masthead.scss
@@ -3,8 +3,8 @@ header.masthead {
     position: relative;
 
     width: 100%;
-    padding-top: 150px;
-    padding-bottom: 100px;
+    padding-top: 70px;
+    padding-bottom: 70px;
 
     color: white;
     .header-content {
